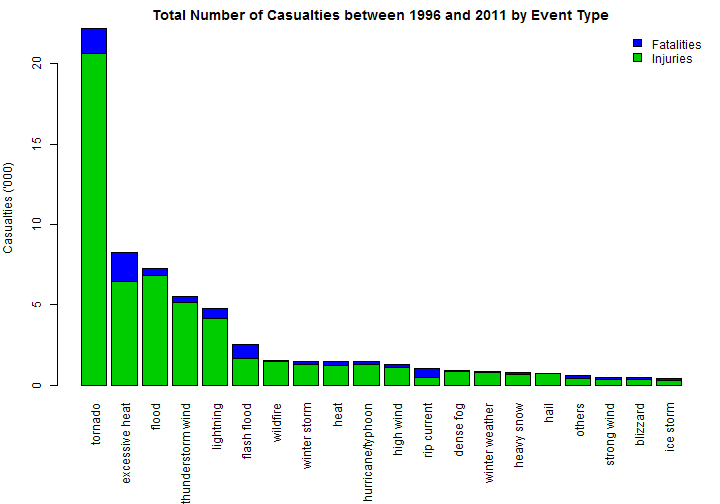
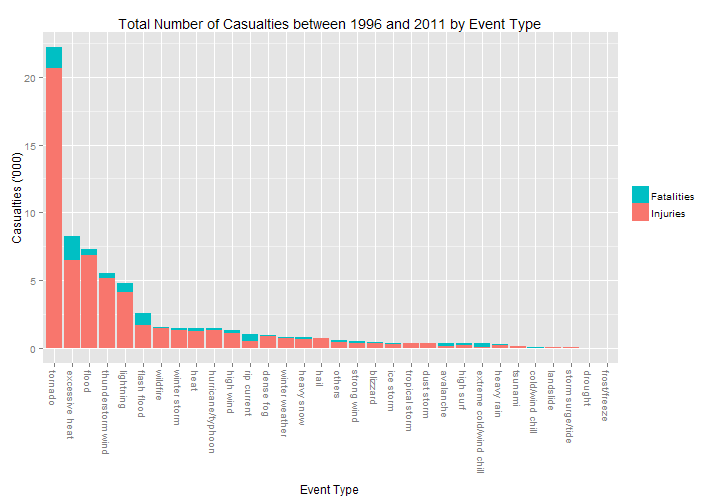
edited ggplot

diff --git a/5-reproducible-research/assessment2/index.html b/5-reproducible-research/assessment2/index.html
@@ -375,39 +375,55 @@ storm_sum$evtype2[id] &lt;- events2
 for the final time.</p>
 
 <pre><code class="r">storm_sum2 &lt;- ddply(storm_sum[, -1], .(evtype2), colwise(sum))
+storm_sum3 &lt;- melt(storm_sum2, id.vars = &quot;evtype2&quot;)
+storm_sum2$evtype2
 </code></pre>
 
-<p>In the end, only 31 event types remained.</p>
+<pre><code>##  [1] &quot;avalanche&quot;               &quot;blizzard&quot;               
+##  [3] &quot;cold/wind chill&quot;         &quot;dense fog&quot;              
+##  [5] &quot;drought&quot;                 &quot;dust storm&quot;             
+##  [7] &quot;excessive heat&quot;          &quot;extreme cold/wind chill&quot;
+##  [9] &quot;flash flood&quot;             &quot;flood&quot;                  
+## [11] &quot;frost/freeze&quot;            &quot;hail&quot;                   
+## [13] &quot;heat&quot;                    &quot;heavy rain&quot;             
+## [15] &quot;heavy snow&quot;              &quot;high surf&quot;              
+## [17] &quot;high wind&quot;               &quot;hurricane/typhoon&quot;      
+## [19] &quot;ice storm&quot;               &quot;landslide&quot;              
+## [21] &quot;lightning&quot;               &quot;others&quot;                 
+## [23] &quot;rip current&quot;             &quot;storm surge/tide&quot;       
+## [25] &quot;strong wind&quot;             &quot;thunderstorm wind&quot;      
+## [27] &quot;tornado&quot;                 &quot;tropical storm&quot;         
+## [29] &quot;tsunami&quot;                 &quot;wildfire&quot;               
+## [31] &quot;winter storm&quot;            &quot;winter weather&quot;
+</code></pre>
+
+<p>In the end, excluding those labeled as &ldquo;others&rdquo;, only 31 event types remained.</p>
 
 <h2>Results</h2>
 
 <p>To simplify comparison, the event types were ranked by cost of interest and plotted in a barplot.</p>
 
-<pre><code class="r">storm_human &lt;- mutate(melt(storm_sum2[, c(&quot;evtype2&quot;, &quot;fatalities&quot;, &quot;injuries&quot;)], id.vars = &quot;evtype2&quot;),
-                      evtype2 = factor(evtype2, levels = with(storm_sum2, evtype2[order(casualties, decreasing = T)])),
-                      variable = factor(variable, levels = c(&quot;injuries&quot;, &quot;fatalities&quot;)))
-qplot(evtype2, data = storm_human, 
-      weight = value / 10^3, fill = variable, 
+<pre><code class="r">qplot(reorder(evtype2, desc(value), sum), 
+      data = droplevels(subset(storm_sum3, variable %in% c(&quot;fatalities&quot;, &quot;injuries&quot;))), 
+      weight = value / 10^3, fill = reorder(variable, desc(value), sum),
       main = &quot;Total Number of Casualties between 1996 and 2011 by Event Type&quot;,
       xlab = &quot;Event Type&quot;, ylab = &quot;Casualties (&#39;000)&quot;) + 
-    scale_fill_discrete(&quot;&quot;, breaks = c(&quot;fatalities&quot;, &quot;injuries&quot;), labels = c(&quot;Fatalities&quot;, &quot;Injuries&quot;)) +
-    theme(axis.text.x = element_text(angle = -90, hjust = 0, vjust = 0))
+    scale_fill_discrete(&quot;&quot;, labels = c(&quot;Injuries&quot;, &quot;Fatalities&quot;), guide = guide_legend(rev = T)) +
+    theme(axis.text.x = element_text(angle = -90, hjust = 0, vjust = 0.5))
 </code></pre>
 
[2 lines of base64/hex data omitted]
 
 <p>In terms of events most harmful to human health, the most costly was tornado, 
 which resulted in more than 20 thousand injuries and about 1500 deaths in the 15 years.
 The next 4 event types (excessive heat, flood, thunderstorm wind and lightning) were also very harmful.</p>
 
-<pre><code class="r">storm_economic &lt;- mutate(melt(storm_sum2[, c(&quot;evtype2&quot;, &quot;propdmg&quot;, &quot;cropdmg&quot;)], id.vars = &quot;evtype2&quot;),
-                         evtype2 = factor(evtype2, levels = with(storm_sum2, evtype2[order(totaldmg, decreasing = T)])),
-                         variable = factor(variable, levels = c(&quot;propdmg&quot;, &quot;cropdmg&quot;)))
-qplot(evtype2, data = storm_economic, 
-      weight = value / 10^9, fill = variable, 
+<pre><code class="r">qplot(reorder(evtype2, desc(value), sum), 
+      data = droplevels(subset(storm_sum3, variable %in% c(&quot;propdmg&quot;, &quot;cropdmg&quot;))),
+      weight = value / 10^9, fill = reorder(variable, desc(value), sum),
       main = &quot;Total Economic Damage between 1996 and 2011 by Event Type&quot;,
       xlab = &quot;Event Type&quot;, ylab = &quot;Economic damage (US$ billions)&quot;) + 
-    scale_fill_discrete(&quot;&quot;, breaks = c(&quot;cropdmg&quot;, &quot;propdmg&quot;), labels = c(&quot;Crop&quot;, &quot;Property&quot;)) +
+    scale_fill_discrete(&quot;&quot;, labels = c(&quot;Property&quot;, &quot;Crop&quot;), guide = guide_legend(rev = T)) +
     theme(axis.text.x = element_text(angle = -90, hjust = 0, vjust = 0))
 </code></pre>
 
